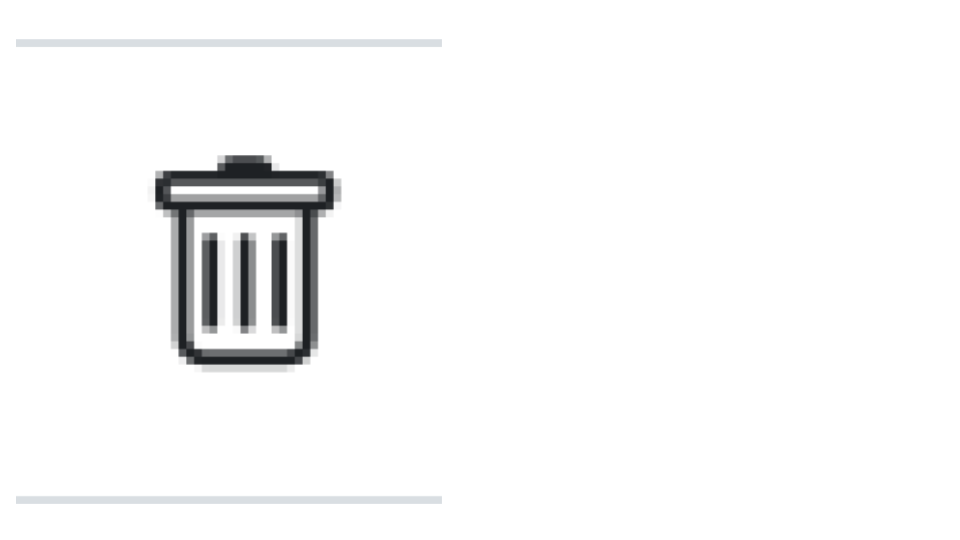
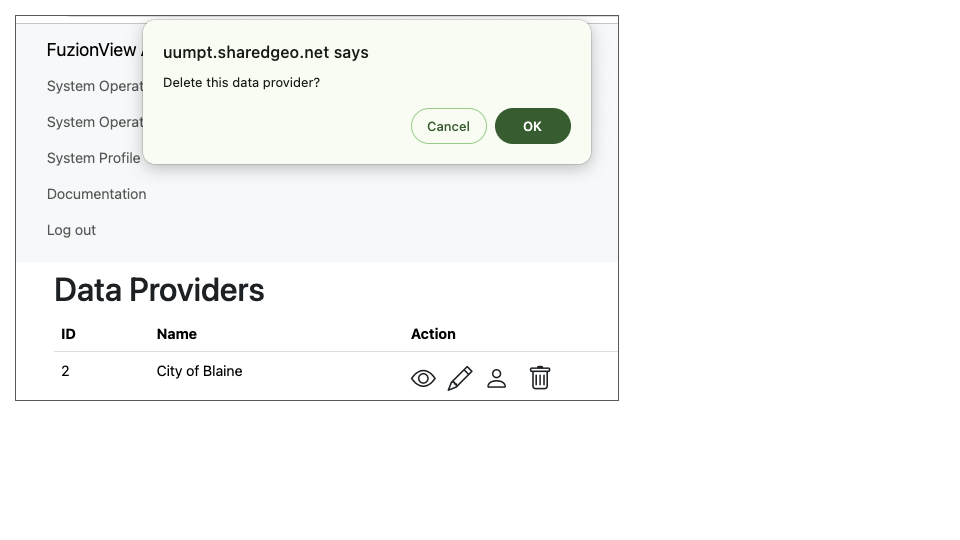
updated delete dataprovider

diff --git a/source/SystemOperatorAdmin.rst b/source/SystemOperatorAdmin.rst
@@ -56,10 +56,10 @@ Change the name of a data provider from the Data Providers list by clicking the 
 Delete Data Provider
 ^^^^^^^^^^^^^^^^^^^^^
 
+To permanently remove a data provide, click the **Trashcan** action icon next to the provider name.
+
 .. warning::
    This cannot be undone.
-
-*PLACEHOLDER - This feature doesn't work yet*
 
 .. figure:: /_static/SOAdmin7_DeleteDataProvider1.png
    :alt: Delete Data Provider
